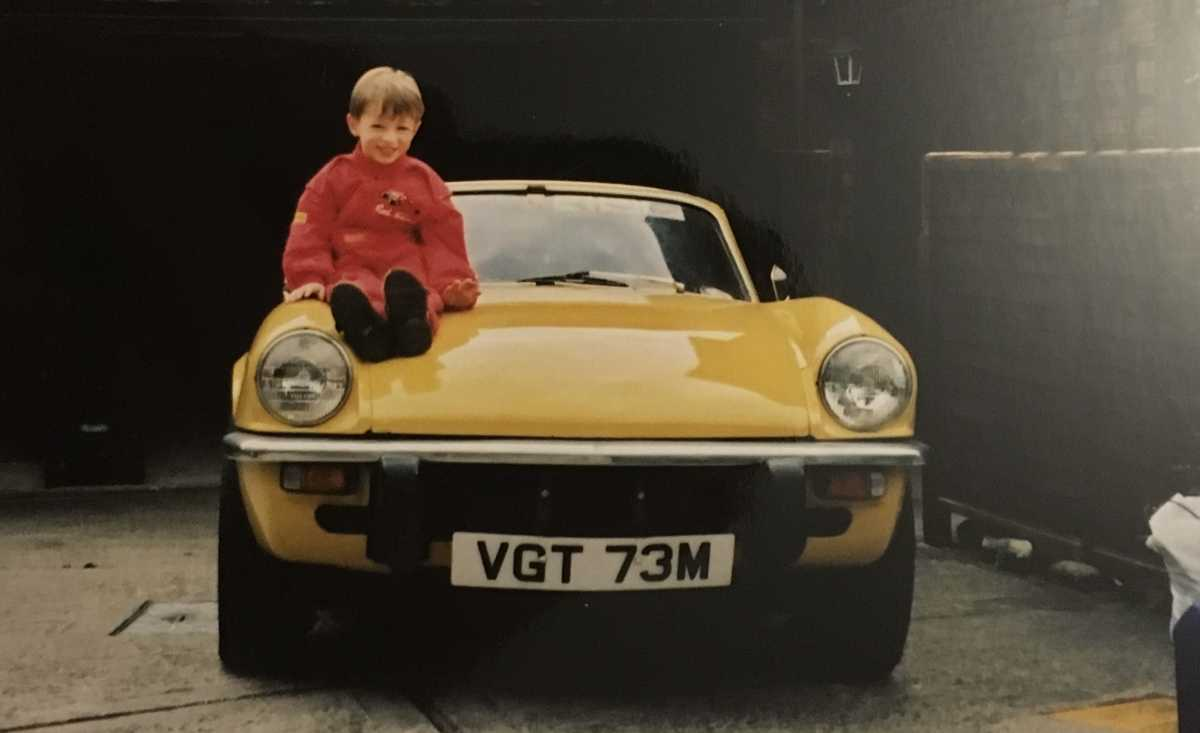
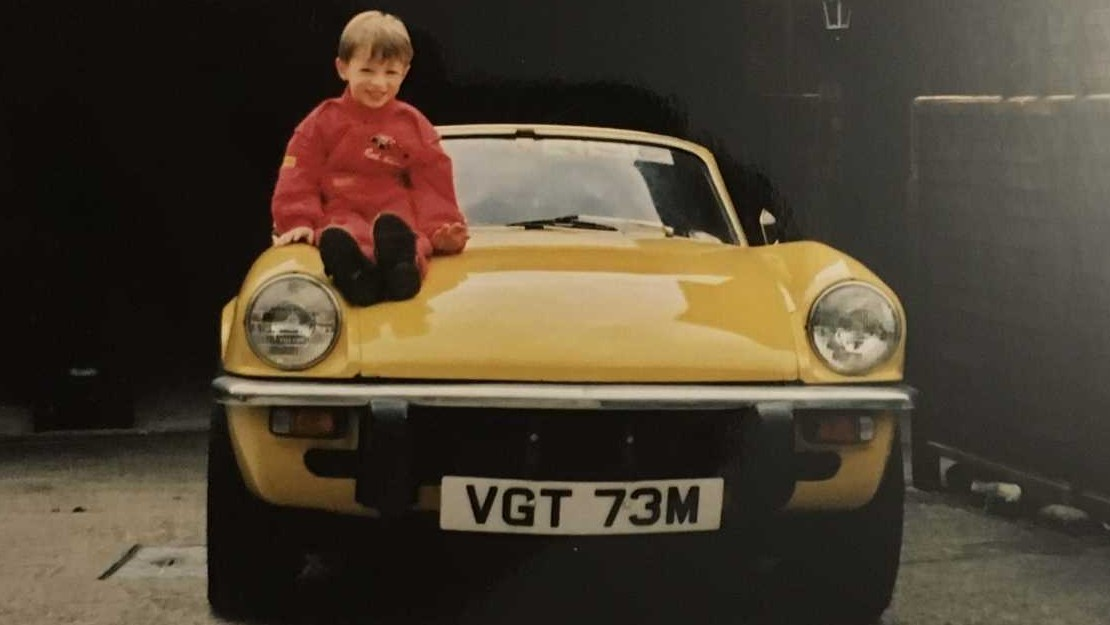
shrink images further

diff --git a/index.html b/index.html
@@ -2,8 +2,12 @@
       <title>IOW TSSC</title>
       <meta charset="utf-8">
       <meta name="viewport" content="width=device-width, initial-scale=1.0">
-      <meta name="description" content="Website for the Isle of Wight Triumph Sport Six Club, with list of upcoming events and a history of the area.">
-      <link rel="stylesheet" href="katex.min.css">
+      
+      <link rel="stylesheet" href="https://cdn.jsdelivr.net/npm/katex@0.16.9/dist/katex.min.css">
+      
+      
+      
+      
       
       <style>
       code[class*=language-],pre[class*=language-]{color:#000;background:0 0;text-shadow:0 1px #fff;font-family:Consolas,Monaco,'Andale Mono','Ubuntu Mono',monospace;text-align:left;white-space:pre;word-spacing:normal;word-break:normal;word-wrap:normal;line-height:1.5;-moz-tab-size:4;-o-tab-size:4;tab-size:4;-webkit-hyphens:none;-moz-hyphens:none;-ms-hyphens:none;hyphens:none}code[class*=language-] ::-moz-selection,code[class*=language-]::-moz-selection,pre[class*=language-] ::-moz-selection,pre[class*=language-]::-moz-selection{text-shadow:none;background:#b3d4fc}code[class*=language-] ::selection,code[class*=language-]::selection,pre[class*=language-] ::selection,pre[class*=language-]::selection{text-shadow:none;background:#b3d4fc}@media print{code[class*=language-],pre[class*=language-]{text-shadow:none}}pre[class*=language-]{padding:1em;margin:.5em 0;overflow:auto}:not(pre)>code[class*=language-],pre[class*=language-]{background:#f5f2f0}:not(pre)>code[class*=language-]{padding:.1em;border-radius:.3em;white-space:normal}.token.cdata,.token.comment,.token.doctype,.token.prolog{color:#708090}.token.punctuation{color:#999}.namespace{opacity:.7}.token.boolean,.token.constant,.token.deleted,.token.number,.token.property,.token.symbol,.token.tag{color:#905}.token.attr-name,.token.builtin,.token.char,.token.inserted,.token.selector,.token.string{color:#690}.language-css .token.string,.style .token.string,.token.entity,.token.operator,.token.url{color:#a67f59;background:hsla(0,0%,100%,.5)}.token.atrule,.token.attr-value,.token.keyword{color:#07a}.token.function{color:#dd4a68}.token.important,.token.regex,.token.variable{color:#e90}.token.bold,.token.important{font-weight:700}.token.italic{font-style:italic}.token.entity{cursor:help}pre[data-line]{position:relative;padding:1em 0 1em 3em}pre[data-line] .line-highlight-wrapper{position:absolute;top:0;left:0;background-color:transparent;display:block;width:100%}pre[data-line] .line-highlight{position:absolute;left:0;right:0;padding:inherit 0;margin-top:1em;background:hsla(24,20%,50%,.08);background:linear-gradient(to right,hsla(24,20%,50%,.1) 70%,hsla(24,20%,50%,0));pointer-events:none;line-height:inherit;white-space:pre}pre[data-line] .line-highlight:before,pre[data-line] .line-highlight[data-end]:after{content:attr(data-start);position:absolute;top:.4em;left:.6em;min-width:1em;padding:0 .5em;background-color:hsla(24,20%,50%,.4);color:#f4f1ef;font:bold 65%/1.5 sans-serif;text-align:center;vertical-align:.3em;border-radius:999px;text-shadow:none;box-shadow:0 1px #fff}pre[data-line] .line-highlight[data-end]:after{content:attr(data-end);top:auto;bottom:.4em}html body{font-family:'Helvetica Neue',Helvetica,'Segoe UI',Arial,freesans,sans-serif;font-size:16px;line-height:1.6;color:#555;background-color:#fff;overflow:initial;box-sizing:border-box;word-wrap:break-word}html body>:first-child{margin-top:0}html body h1,html body h2,html body h3,html body h4,html body h5,html body h6{line-height:1.2;margin-top:1em;margin-bottom:16px;color:#030303}html body h1{font-size:2.25em;font-weight:300;padding-bottom:.3em}html body h2{font-size:1.75em;font-weight:400;padding-bottom:.3em}html body h3{font-size:1.5em;font-weight:500}html body h4{font-size:1.25em;font-weight:600}html body h5{font-size:1.1em;font-weight:600}html body h6{font-size:1em;font-weight:600}html body h1,html body h2,html body h3,html body h4,html body h5{font-weight:600}html body h5{font-size:1em}html body h6{color:#7e7e7e}html body strong{color:#030303}html body del{color:#7e7e7e}html body a:not([href]){color:inherit;text-decoration:none}html body a{color:#08c;text-decoration:none}html body a:hover{color:#00a3f5;text-decoration:none}html body img{max-width:100%}html body>p{margin-top:0;margin-bottom:16px;word-wrap:break-word}html body>ol,html body>ul{margin-bottom:16px}html body ol,html body ul{padding-left:2em}html body ol.no-list,html body ul.no-list{padding:0;list-style-type:none}html body ol ol,html body ol ul,html body ul ol,html body ul ul{margin-top:0;margin-bottom:0}html body li{margin-bottom:0}html body li.task-list-item{list-style:none}html body li>p{margin-top:0;margin-bottom:0}html body .task-list-item-checkbox{margin:0 .2em .25em -1.8em;vertical-align:middle}html body .task-list-item-checkbox:hover{cursor:pointer}html body blockquote{margin:16px 0;font-size:inherit;padding:0 15px;color:#7e7e7e;background-color:#f0f0f0;border-left:4px solid #d6d6d6}html body blockquote>:first-child{margin-top:0}html body blockquote>:last-child{margin-bottom:0}html body hr{height:4px;margin:32px 0;background-color:#d6d6d6;border:0 none}html body table{margin:10px 0 15px 0;border-collapse:collapse;border-spacing:0;display:block;width:100%;overflow:auto;word-break:normal;word-break:keep-all}html body table th{font-weight:700;color:#030303}html body table td,html body table th{border:1px solid #d6d6d6;padding:6px 13px}html body dl{padding:0}html body dl dt{padding:0;margin-top:16px;font-size:1em;font-style:italic;font-weight:700}html body dl dd{padding:0 16px;margin-bottom:16px}html body code{font-family:Menlo,Monaco,Consolas,'Courier New',monospace;font-size:.85em;color:#030303;background-color:#f0f0f0;border-radius:3px;padding:.2em 0}html body code::after,html body code::before{letter-spacing:-.2em;content:'\00a0'}html body pre>code{padding:0;margin:0;word-break:normal;white-space:pre;background:0 0;border:0}html body .highlight{margin-bottom:16px}html body .highlight pre,html body pre{padding:1em;overflow:auto;line-height:1.45;border:#d6d6d6;border-radius:3px}html body .highlight pre{margin-bottom:0;word-break:normal}html body pre code,html body pre tt{display:inline;max-width:initial;padding:0;margin:0;overflow:initial;line-height:inherit;word-wrap:normal;background-color:transparent;border:0}html body pre code:after,html body pre code:before,html body pre tt:after,html body pre tt:before{content:normal}html body blockquote,html body dl,html body ol,html body p,html body pre,html body ul{margin-top:0;margin-bottom:16px}html body kbd{color:#030303;border:1px solid #d6d6d6;border-bottom:2px solid #c7c7c7;padding:2px 4px;background-color:#f0f0f0;border-radius:3px}@media print{html body{background-color:#fff}html body h1,html body h2,html body h3,html body h4,html body h5,html body h6{color:#030303;page-break-after:avoid}html body blockquote{color:#7e7e7e}html body pre{page-break-inside:avoid}html body table{display:table}html body img{display:block;max-width:100%;max-height:100%}html body code,html body pre{word-wrap:break-word;white-space:pre}}.markdown-preview{width:100%;height:100%;box-sizing:border-box}.markdown-preview ul{list-style:disc}.markdown-preview ul ul{list-style:circle}.markdown-preview ul ul ul{list-style:square}.markdown-preview ol{list-style:decimal}.markdown-preview ol ol,.markdown-preview ul ol{list-style-type:lower-roman}.markdown-preview ol ol ol,.markdown-preview ol ul ol,.markdown-preview ul ol ol,.markdown-preview ul ul ol{list-style-type:lower-alpha}.markdown-preview .newpage,.markdown-preview .pagebreak{page-break-before:always}.markdown-preview pre.line-numbers{position:relative;padding-left:3.8em;counter-reset:linenumber}.markdown-preview pre.line-numbers>code{position:relative}.markdown-preview pre.line-numbers .line-numbers-rows{position:absolute;pointer-events:none;top:1em;font-size:100%;left:0;width:3em;letter-spacing:-1px;border-right:1px solid #999;-webkit-user-select:none;-moz-user-select:none;-ms-user-select:none;user-select:none}.markdown-preview pre.line-numbers .line-numbers-rows>span{pointer-events:none;display:block;counter-increment:linenumber}.markdown-preview pre.line-numbers .line-numbers-rows>span:before{content:counter(linenumber);color:#999;display:block;padding-right:.8em;text-align:right}.markdown-preview .mathjax-exps .MathJax_Display{text-align:center!important}.markdown-preview:not([data-for=preview]) .code-chunk .code-chunk-btn-group{display:none}.markdown-preview:not([data-for=preview]) .code-chunk .status{display:none}.markdown-preview:not([data-for=preview]) .code-chunk .output-div{margin-bottom:16px}.markdown-preview .md-toc{padding:0}.markdown-preview .md-toc .md-toc-link-wrapper .md-toc-link{display:inline;padding:.25rem 0}.markdown-preview .md-toc .md-toc-link-wrapper .md-toc-link div,.markdown-preview .md-toc .md-toc-link-wrapper .md-toc-link p{display:inline}.markdown-preview .md-toc .md-toc-link-wrapper.highlighted .md-toc-link{font-weight:800}.scrollbar-style::-webkit-scrollbar{width:8px}.scrollbar-style::-webkit-scrollbar-track{border-radius:10px;background-color:transparent}.scrollbar-style::-webkit-scrollbar-thumb{border-radius:5px;background-color:rgba(150,150,150,.66);border:4px solid rgba(150,150,150,.66);background-clip:content-box}html body[for=html-export]:not([data-presentation-mode]){position:relative;width:100%;height:100%;top:0;left:0;margin:0;padding:0;overflow:auto}html body[for=html-export]:not([data-presentation-mode]) .markdown-preview{position:relative;top:0;min-height:100vh}@media screen and (min-width:914px){html body[for=html-export]:not([data-presentation-mode]) .markdown-preview{padding:2em calc(50% - 457px + 2em)}}@media screen and (max-width:914px){html body[for=html-export]:not([data-presentation-mode]) .markdown-preview{padding:2em}}@media screen and (max-width:450px){html body[for=html-export]:not([data-presentation-mode]) .markdown-preview{font-size:14px!important;padding:1em}}@media print{html body[for=html-export]:not([data-presentation-mode]) #sidebar-toc-btn{display:none}}html body[for=html-export]:not([data-presentation-mode]) #sidebar-toc-btn{position:fixed;bottom:8px;left:8px;font-size:28px;cursor:pointer;color:inherit;z-index:99;width:32px;text-align:center;opacity:.4}html body[for=html-export]:not([data-presentation-mode])[html-show-sidebar-toc] #sidebar-toc-btn{opacity:1}html body[for=html-export]:not([data-presentation-mode])[html-show-sidebar-toc] .md-sidebar-toc{position:fixed;top:0;left:0;width:300px;height:100%;padding:32px 0 48px 0;font-size:14px;box-shadow:0 0 4px rgba(150,150,150,.33);box-sizing:border-box;overflow:auto;background-color:inherit}html body[for=html-export]:not([data-presentation-mode])[html-show-sidebar-toc] .md-sidebar-toc::-webkit-scrollbar{width:8px}html body[for=html-export]:not([data-presentation-mode])[html-show-sidebar-toc] .md-sidebar-toc::-webkit-scrollbar-track{border-radius:10px;background-color:transparent}html body[for=html-export]:not([data-presentation-mode])[html-show-sidebar-toc] .md-sidebar-toc::-webkit-scrollbar-thumb{border-radius:5px;background-color:rgba(150,150,150,.66);border:4px solid rgba(150,150,150,.66);background-clip:content-box}html body[for=html-export]:not([data-presentation-mode])[html-show-sidebar-toc] .md-sidebar-toc a{text-decoration:none}html body[for=html-export]:not([data-presentation-mode])[html-show-sidebar-toc] .md-sidebar-toc .md-toc{padding:0 16px}html body[for=html-export]:not([data-presentation-mode])[html-show-sidebar-toc] .md-sidebar-toc .md-toc .md-toc-link-wrapper .md-toc-link{display:inline;padding:.25rem 0}html body[for=html-export]:not([data-presentation-mode])[html-show-sidebar-toc] .md-sidebar-toc .md-toc .md-toc-link-wrapper .md-toc-link div,html body[for=html-export]:not([data-presentation-mode])[html-show-sidebar-toc] .md-sidebar-toc .md-toc .md-toc-link-wrapper .md-toc-link p{display:inline}html body[for=html-export]:not([data-presentation-mode])[html-show-sidebar-toc] .md-sidebar-toc .md-toc .md-toc-link-wrapper.highlighted .md-toc-link{font-weight:800}html body[for=html-export]:not([data-presentation-mode])[html-show-sidebar-toc] .markdown-preview{left:300px;width:calc(100% - 300px);padding:2em calc(50% - 457px - 300px / 2);margin:0;box-sizing:border-box}@media screen and (max-width:1274px){html body[for=html-export]:not([data-presentation-mode])[html-show-sidebar-toc] .markdown-preview{padding:2em}}@media screen and (max-width:450px){html body[for=html-export]:not([data-presentation-mode])[html-show-sidebar-toc] .markdown-preview{width:100%}}html body[for=html-export]:not([data-presentation-mode]):not([html-show-sidebar-toc]) .markdown-preview{left:50%;transform:translateX(-50%)}html body[for=html-export]:not([data-presentation-mode]):not([html-show-sidebar-toc]) .md-sidebar-toc{display:none}
@@ -40,8 +44,7 @@
 <p></p><h1 id="about-jo--roxy">About Jo &amp; Roxy </h1>
 <p>I'm Jo, the son of Elaine and Jason and have been around Triumphs all my life.<br>
 I have "<em>driven</em>" Triumphs since I could sit on my parents lap and reach the steering wheel, but I first drove a Spitfire on the road in 2015.<br>
-<img src="../assets/jovgt.jpeg" alt="Jo sat on a spitfire" title="Jo sat on a spitfire"></p>
-<p><img src="../assets/1stdrive.JPG" alt="my first time driving a spitfire" title="my first time driving a spitfire"><br>
+<img src="../assets/jovgt.jpeg" alt="Jo sat on a spitfire" title="Jo sat on a spitfire" width="50%"><img src="../assets/1stdrive.JPG" alt="my first time driving a spitfire" title="my first time driving a spitfire" width="50%"><br>
 I'm Roxy and whilst I didn't grow up around Triumphs, they have been a key part of Jo and I's relationship. When he took me to my first IOW TSSC weekend in 2013, I absolutely loved it! Since then I have enjoyed every adventure we have had in our Spitfire, including our road trip to Le Mans classic in 2018.<br>
 <img src="../assets/lemans.JPG" alt="driving at lemans"></p>
 <p>Last year you would have seen us on the cover of The Courier for our wedding.<br>
